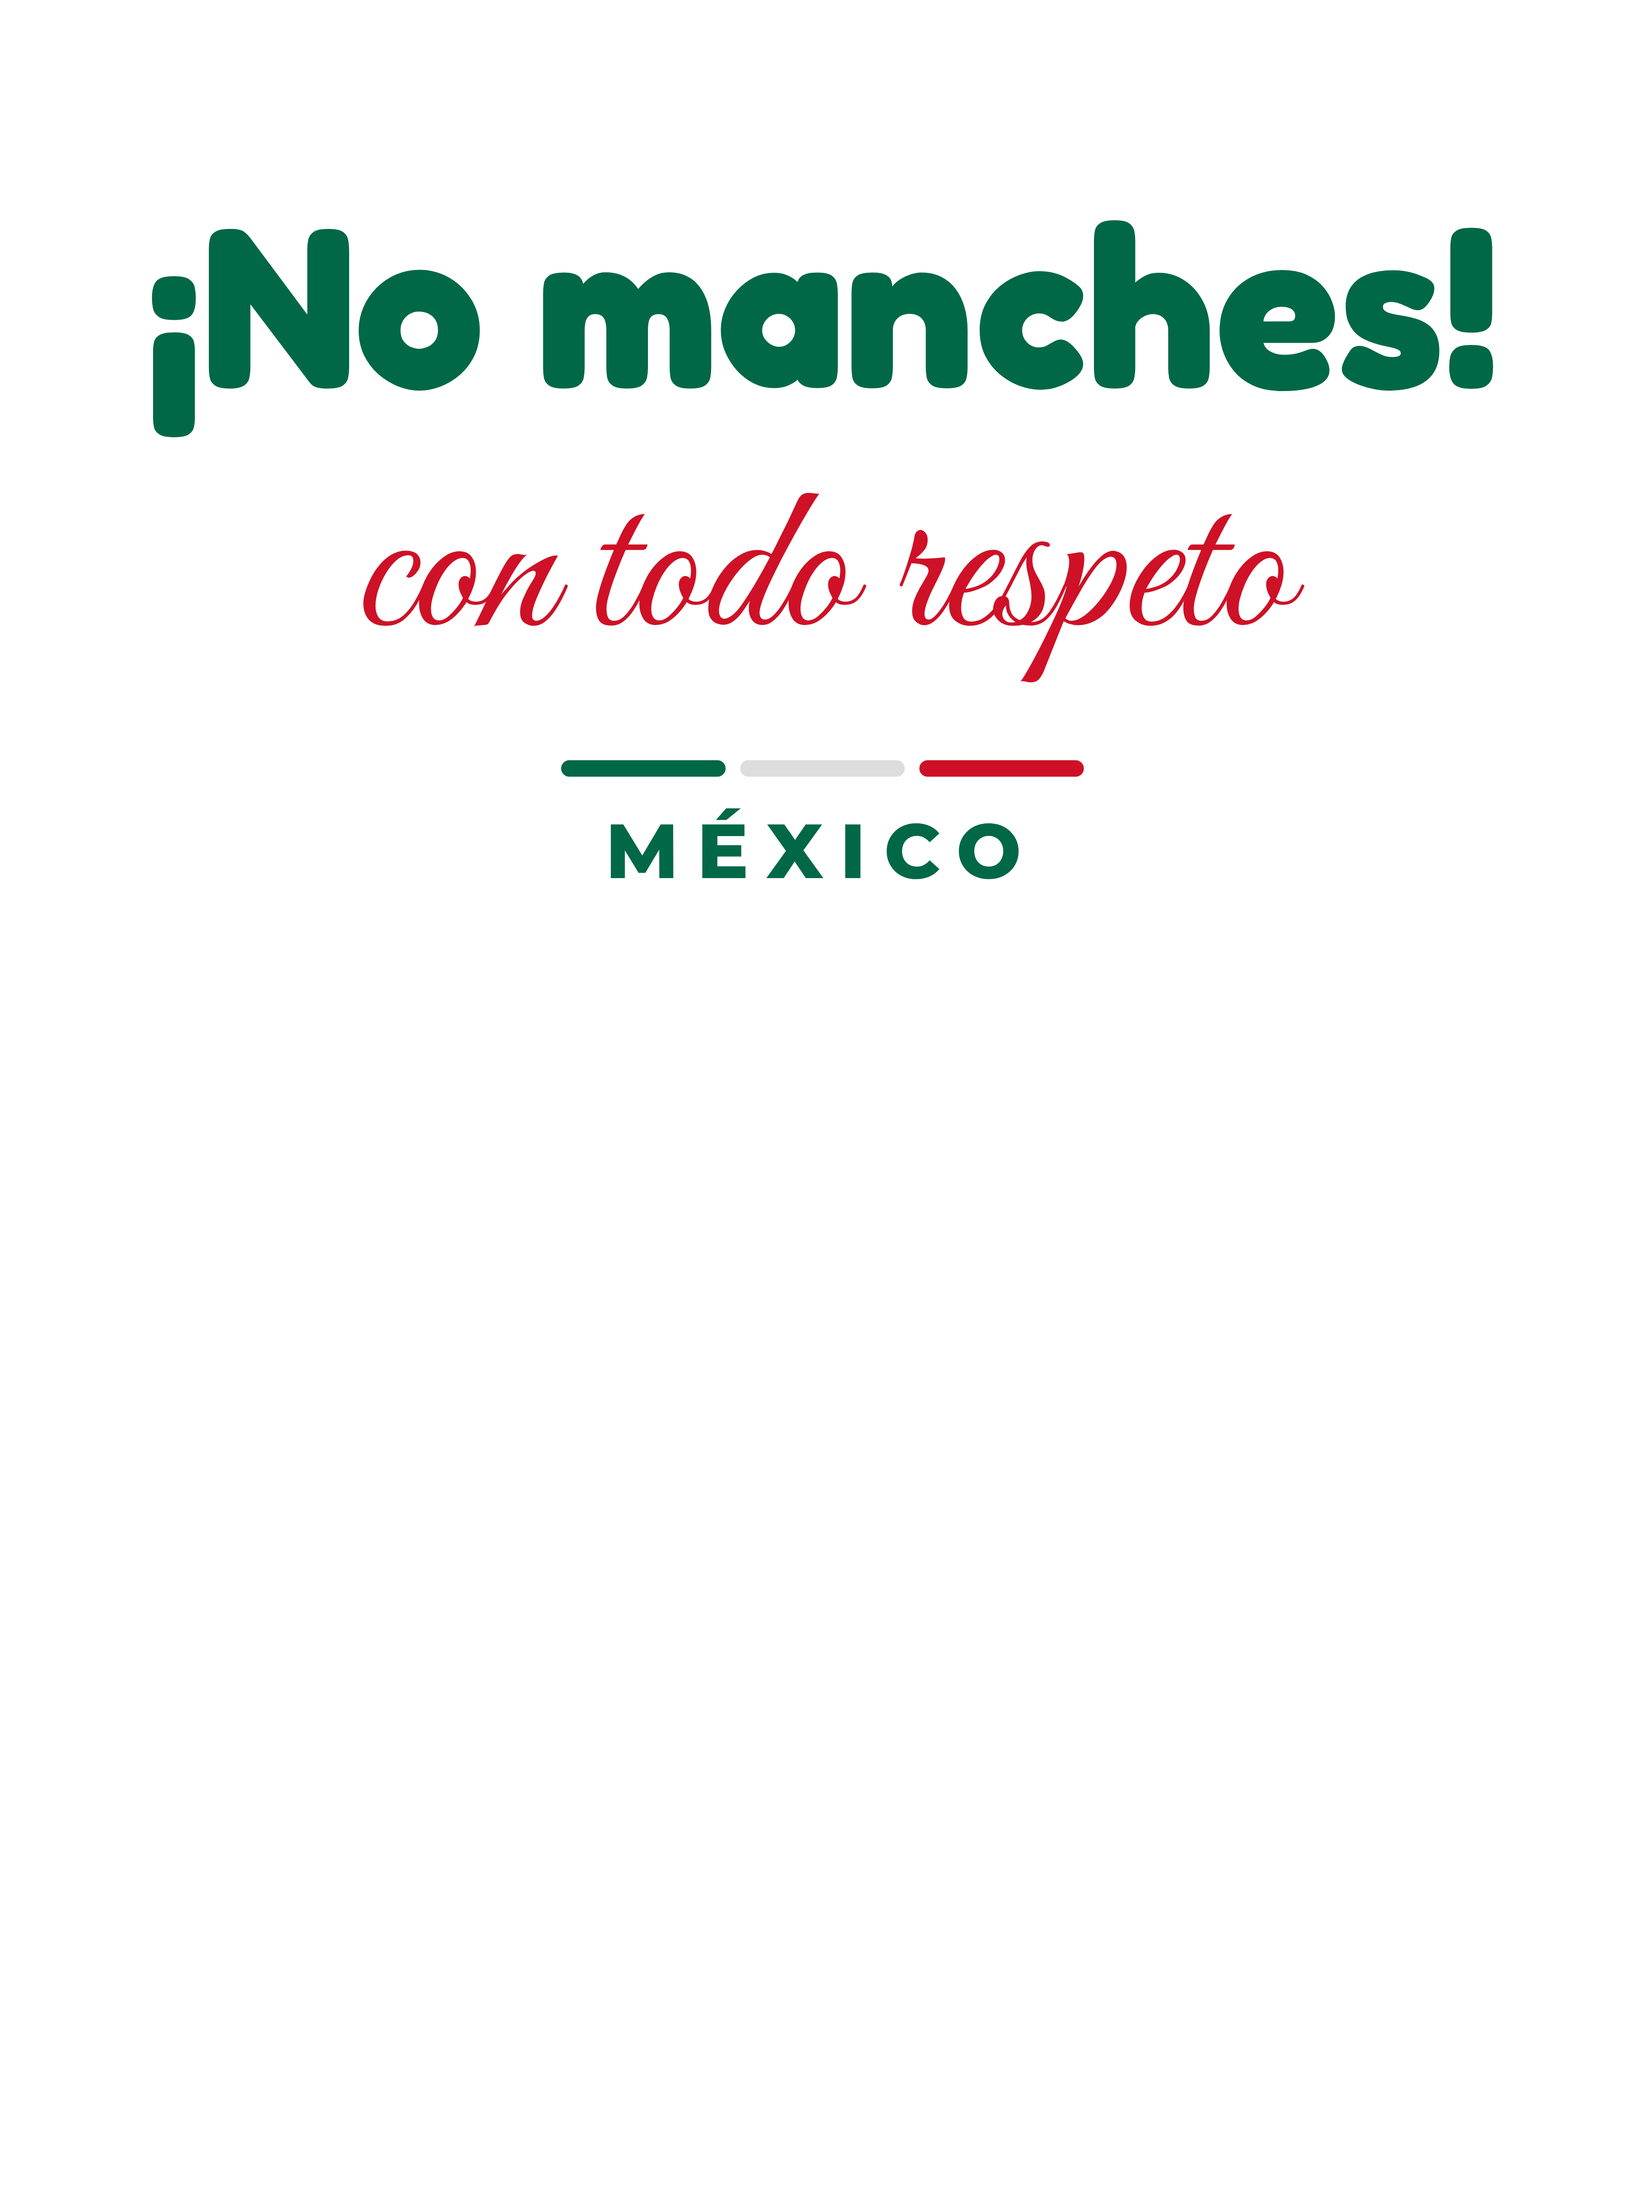
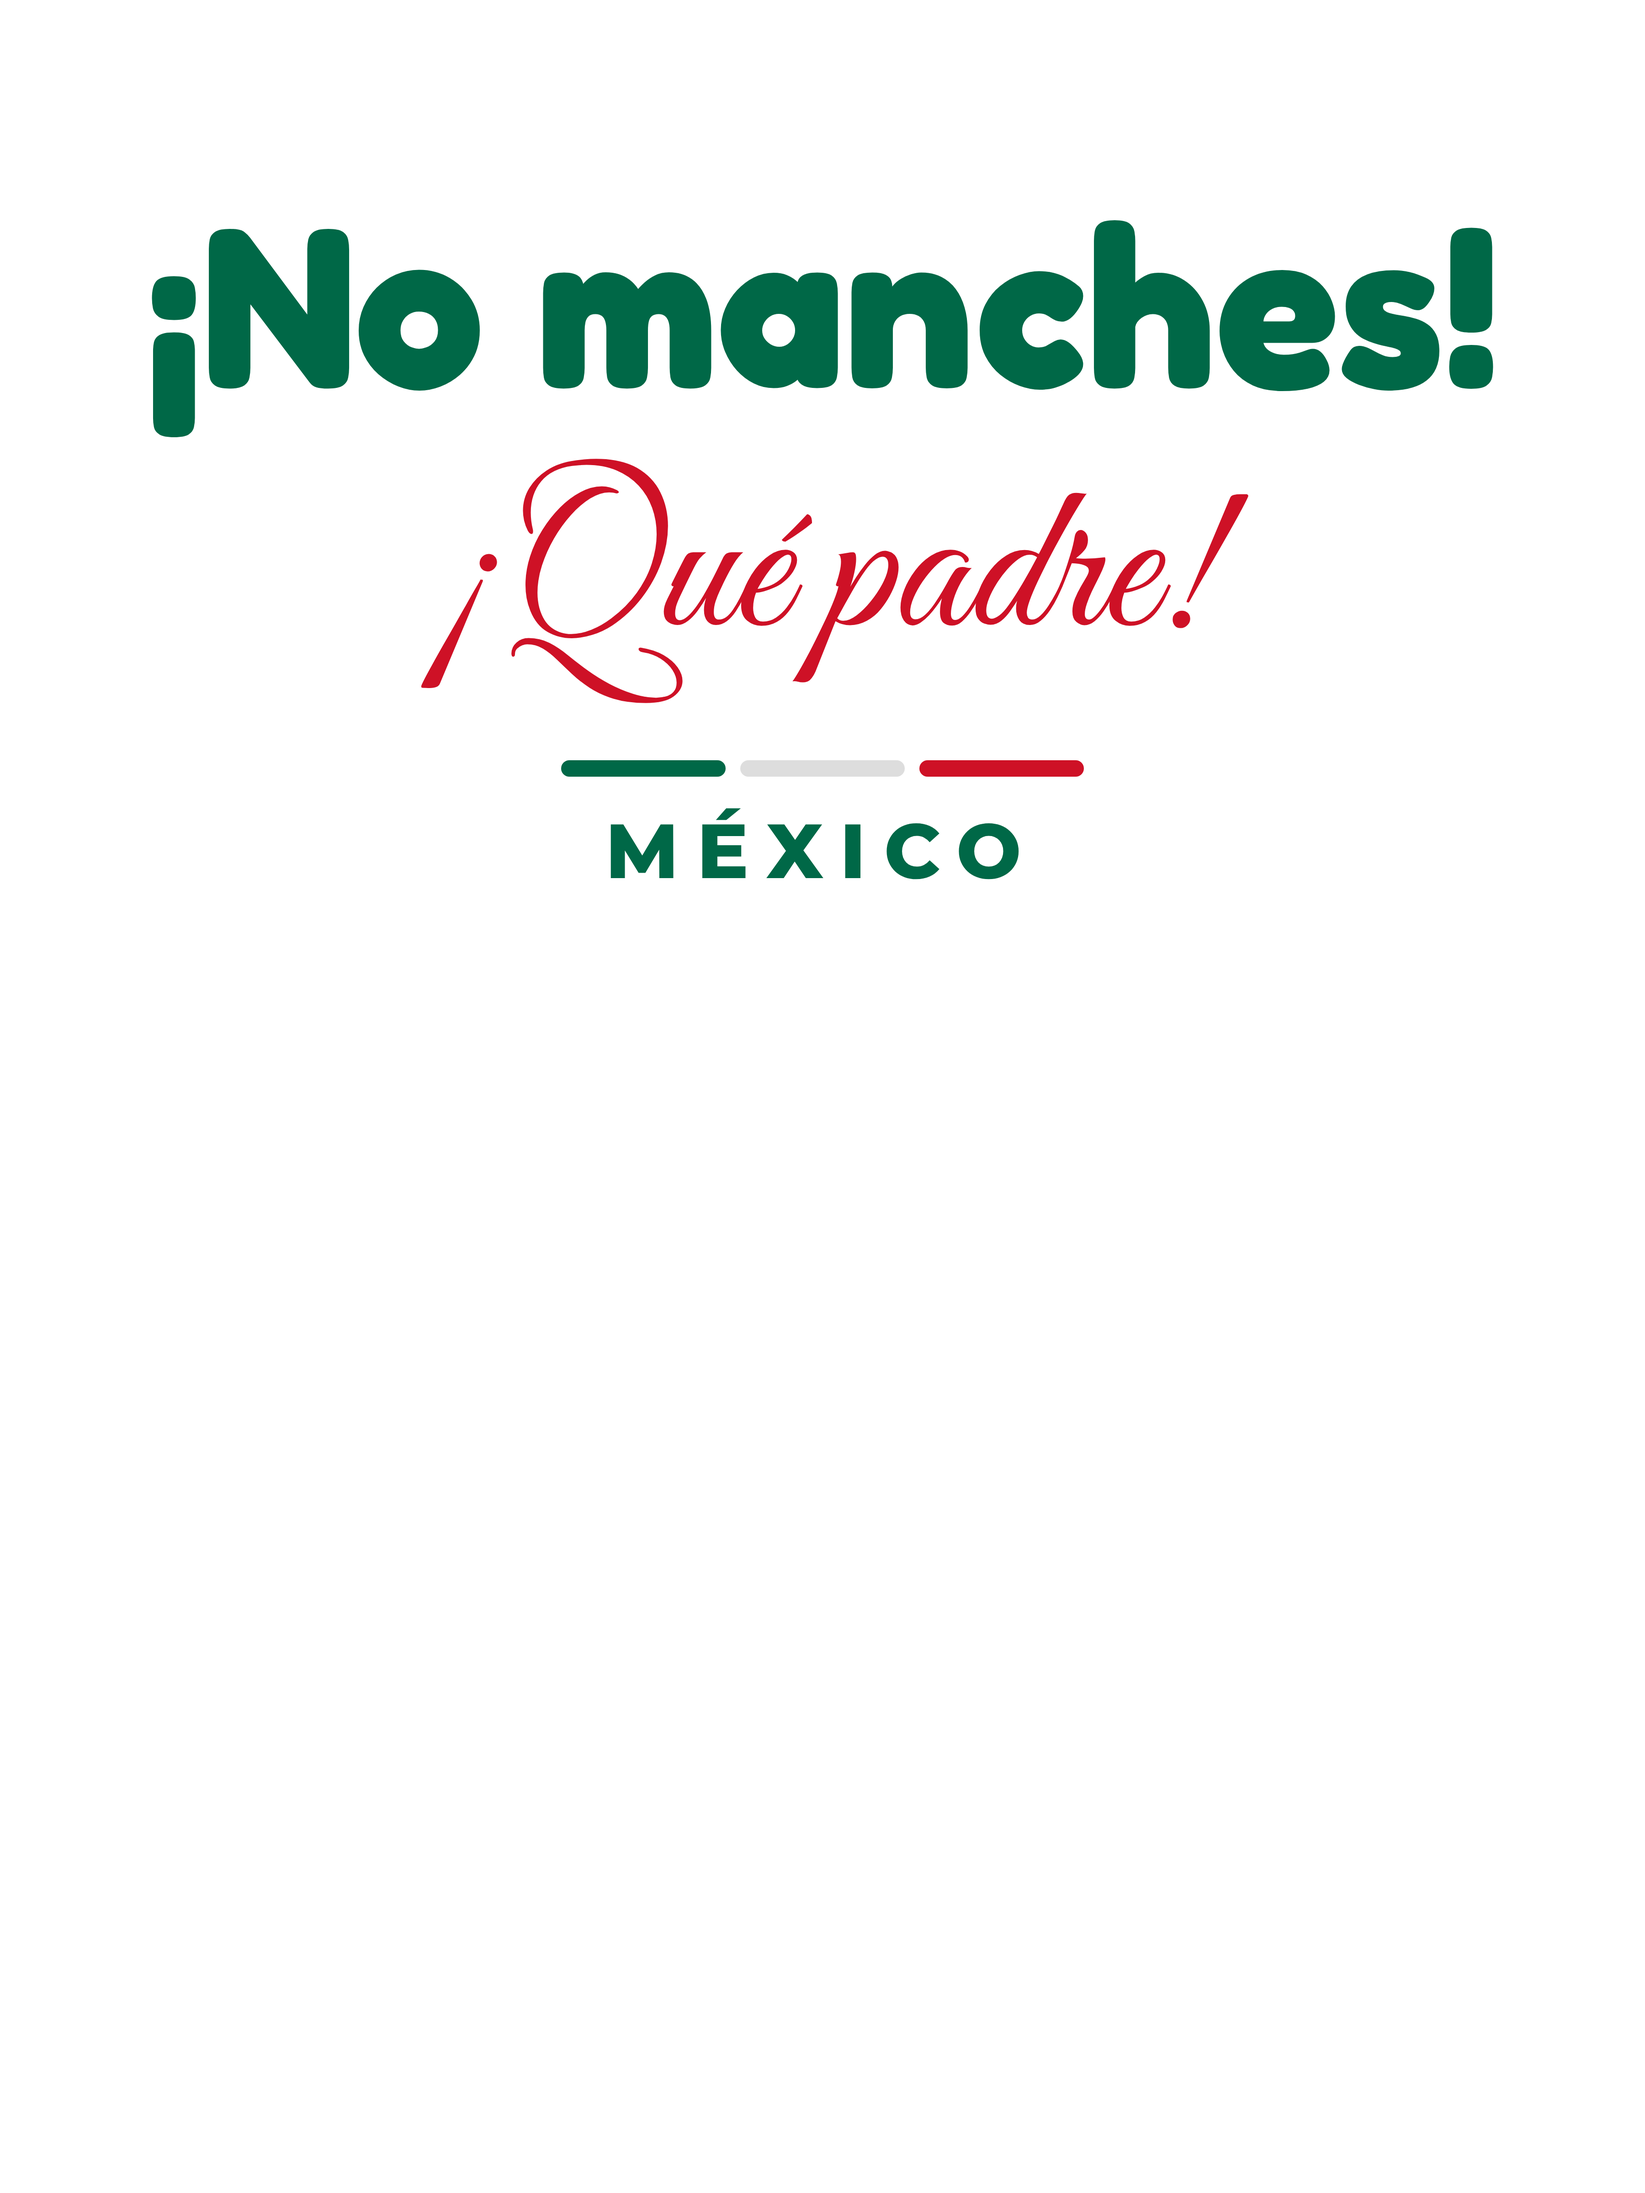
Country tees: México '¡Qué padre!'; add builder step
Claude-Session: https://claude.ai/code/session_016J2nU7A2YAX41gT6f3cs1D

Changed region(s): [[0.2178, 0.1875, 0.7778, 0.3125], [0.3733, 0.3125, 0.4044, 0.3438]]

diff --git a/docs/unity-keepsakes/design-scripts/build_batch3.py b/docs/unity-keepsakes/design-scripts/build_batch3.py
@@ -96,4 +96,8 @@ if step in ('all','c'):
       '<p><strong>Sr. &amp; Sra. · Mr. &amp; Mrs.</strong> 💍 A bilingual wedding and anniversary gift. Order one of each for the happy couple.</p><ul><li>Glossy ceramic mug, 11 oz or 15 oz</li><li>Printed on both sides; dishwasher &amp; microwave safe</li></ul>',['mr and mrs mug','sr y sra','wedding gift','newlywed gift','Weddings'])
     apparel('ADORE-SWEAT','"O Come, Let Us Adore Him · Venid, Adoremos" Christmas Sweatshirt','Sweatshirt',145,(1800,2400),['Navy','Maroon','Forest Green'],SW_S[:5],lambda e,c:'batch2/sweatshirt_adore-classic.png',SW_P,
       '<p><em>O come, let us adore Him · Venid, adoremos</em><br>Christ the Lord · Cristo el Señor ✦</p><p>A classic, reverent Christmas sweatshirt in English and Spanish.</p><ul><li>Gildan 18000 unisex crewneck sweatshirt</li><li>Unisex sizing S–3XL</li></ul>',['christian christmas sweatshirt','o come let us adore him','church christmas','Faith · Fe'])
+if step=='d':
+    for k,name,cty in [('dr','KLK ¿Qué lo que?','República Dominicana'),('cuba','¿Qué Bolá, Asere?','Cuba'),('pr','¡Wepa! Boricua de Pura Cepa','Puerto Rico'),('venezuela','¿Qué Más, Chamo?','Venezuela'),('mexico','¡No Manches! ¡Qué Padre!','México'),('colombia','¿Qué Más, Parce?','Colombia')]:
+        apparel('PRIDE-'+k.upper(),f'"{name}" {cty} Pride T-Shirt','T-Shirt',71,(1800,2400),['White','Natural','Navy','Black'],TEE_S,LD(f'countries/tee_{k}').__class__(lambda e,c,k=k: f"countries/tee_{k}_{'light' if c in ('White','Natural') else 'dark'}.png"),TEE_P,
+          f'<p><strong>{name}</strong> · {cty} 💛 Wear your roots with pride, with the everyday greeting everyone back home knows.</p><ul><li>Bella+Canvas 3001 unisex tee, soft and lightweight</li><li>Unisex sizing S–4XL</li></ul>',[f'{cty.lower()} shirt','latino pride','heritage shirt','Orgullo · Heritage Pride'])
 json.dump(P,open(OUT,'w'),indent=1,ensure_ascii=False); print('built',[p['key'] for p in P])

diff --git a/docs/unity-keepsakes/design-scripts/countries/designs.py b/docs/unity-keepsakes/design-scripts/countries/designs.py
@@ -7,7 +7,7 @@ C={ # key: (big, script/sub, country, c1, c2, c3)
  'cuba':('¿Qué bolá,','asere?','CUBA','#002A8F','#CF142B','#002A8F'),
  'pr':('¡WEPA!','Boricua de pura cepa','PUERTO RICO','#ED0000','#0050F0','#ED0000'),
  'venezuela':('¿Qué más,','chamo?','VENEZUELA','#00247D','#CF142B','#E8B400'),
- 'mexico':('¡No manches!','con todo respeto','MÉXICO','#006847','#CE1126','#006847'),
+ 'mexico':('¡No manches!','¡Qué padre!','MÉXICO','#006847','#CE1126','#006847'),
  'colombia':('¿Qué más,','parce?','COLOMBIA','#003893','#CE1126','#E8B400'),
 }
 def html(big,sub,country,c1,c2,c3,dark):
